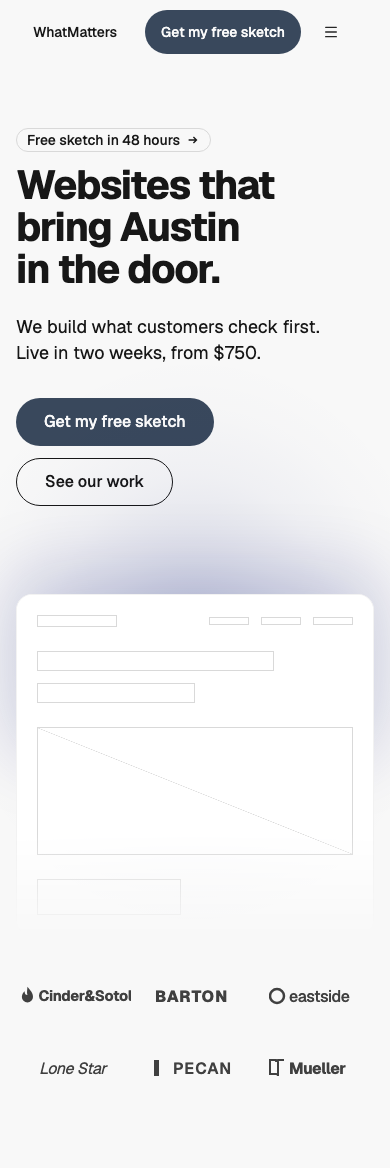
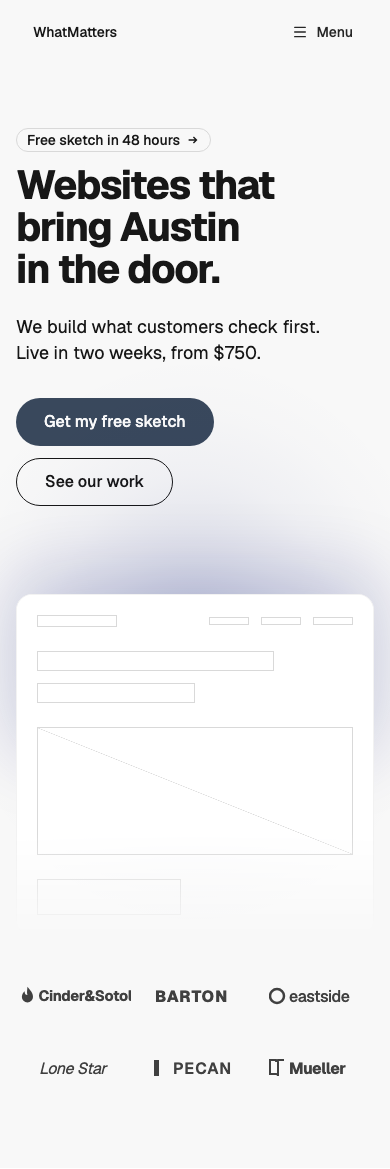
Header — Mobile Menu (draft): the site header pattern on WMDS SiteNav 0.4.31 — all links on desktop, Menu/Close word button and full-height menu on phones, compact bar on scroll
- HeaderMobileMenu.tsx: links once for bar and menu; action + menuAction; secondary on desktop
- example over a tall placeholder page; README (slots, behaviour, Adapt it), SKILL.md row
- check: Header type (banner + nav, no h1); Copy prompt counts { label } lists as text
- hero examples: drop the max-[359px] CTA workaround (SiteNav now gives way by measurement) and pass mobileAction
- needs the WMDS 0.4.31 pin bump before CI can typecheck mobileAction

Changed region(s): [[0.3692, 0.0, 0.7692, 0.0616], [0.8, 0.0, 0.8923, 0.0308]]

diff --git a/patterns/header/mobile-menu/HeaderMobileMenu.tsx b/patterns/header/mobile-menu/HeaderMobileMenu.tsx
@@ -1,0 +1,63 @@
+/**
+ * Header — Mobile Menu: the site header and its phone menu, after the Header and mobile menu rule
+ * (Randy, 2026-10-28). WMDS `SiteNav` does the work: all links on desktop, a "☰ Menu" button below `md`
+ * that becomes "✕ Close" in place and opens a full-height menu under the bar (56px rows, the main action
+ * at the bottom), and the floating compact bar once the page scrolls.
+ */
+import type { ReactNode } from "react";
+import { SiteNav } from "@thewhatmatters/wmds";
+
+export interface HeaderMobileMenuLink {
+  label: string;
+  href: string;
+  /** The page you're on: marked by the selected fill and `aria-current="page"`. */
+  current?: boolean;
+}
+
+export interface HeaderMobileMenuProps {
+  /** Slot: the brand, a WMDS `<SiteNav.Brand href="/">Name</SiteNav.Brand>` (a wordmark link that never underlines). */
+  brand: ReactNode;
+  /** The main links, key word first; 4 or fewer so they also show on tablets (5–7 at most on desktop). */
+  links: HeaderMobileMenuLink[];
+  /** Slot: the bar's main button, a WMDS `<Button size="sm">`. Hides under 360px; `menuAction` carries it there. */
+  action: ReactNode;
+  /** Slot: the same action as a full-width WMDS `<Button>` at the bottom of the open menu. */
+  menuAction: ReactNode;
+  /** Slot, optional: a quieter link beside the main button on desktop (Sign in, Contact). */
+  secondary?: ReactNode;
+  /** `fixed` (default) is page chrome: in flow at the top, then the floating compact bar on scroll. */
+  placement?: "fixed" | "inline";
+  className?: string;
+}
+
+export function HeaderMobileMenu({ brand, links, action, menuAction, secondary, placement = "fixed", className }: HeaderMobileMenuProps) {
+  return (
+    <div data-pattern="header-mobile-menu" className={className}>
+      <SiteNav
+        placement={placement}
+        start={<div data-slot="brand">{brand}</div>}
+        middle={
+          <SiteNav.Links>
+            {links.map((link) => (
+              <SiteNav.Link key={link.href} href={link.href} current={link.current}>
+                {link.label}
+              </SiteNav.Link>
+            ))}
+          </SiteNav.Links>
+        }
+        end={
+          <div className="flex items-center gap-2" data-slot="action">
+            {secondary != null ? <span className="max-md:hidden" data-slot="secondary" data-slot-optional="">{secondary}</span> : null}
+            {action}
+          </div>
+        }
+        mobile={links.map((link) => (
+          <SiteNav.MobileLink key={link.href} href={link.href} current={link.current}>
+            {link.label}
+          </SiteNav.MobileLink>
+        ))}
+        mobileAction={<div data-slot="menuAction">{menuAction}</div>}
+      />
+    </div>
+  );
+}

diff --git a/patterns/header/mobile-menu/example.tsx b/patterns/header/mobile-menu/example.tsx
@@ -1,0 +1,50 @@
+/**
+ * Example content for Header — Mobile Menu: a WhatMatters-style site header over a placeholder page tall
+ * enough to scroll, so the compact bar shows. Replace the links, brand and action with the site's own.
+ */
+import { Button, SiteNav } from "@thewhatmatters/wmds";
+import { HeaderMobileMenu, type HeaderMobileMenuProps } from "./HeaderMobileMenu";
+
+export const meta = {
+  type: "Header",
+  name: "Header — Mobile Menu",
+  purpose: "The site header with all links on desktop, a Menu button and full-height menu on phones, and a compact bar on scroll.",
+};
+
+export function HeaderMobileMenuExample(props: Partial<HeaderMobileMenuProps>) {
+  return (
+    <>
+      <HeaderMobileMenu
+        brand={<SiteNav.Brand href="#home">WhatMatters</SiteNav.Brand>}
+        links={[
+          { label: "Services", href: "#services", current: true },
+          { label: "Work", href: "#work" },
+          { label: "Pricing", href: "#pricing" },
+          { label: "Contact", href: "#contact" },
+        ]}
+        secondary={
+          <Button role="ghost" size="sm" render={<a href="#signin" />}>
+            Sign in
+          </Button>
+        }
+        action={
+          <Button role="primary" size="sm" render={<a href="#sketch" />} className="whitespace-nowrap">
+            Get my free sketch
+          </Button>
+        }
+        menuAction={
+          <Button role="primary" size="lg" render={<a href="#sketch" />}>
+            Get my free sketch
+          </Button>
+        }
+        {...props}
+      />
+      {/* Placeholder page: tall enough to scroll, so the compact bar shows. */}
+      <main className="grid-page">
+        <div className="col-span-full h-[160vh] rounded-[var(--radius-surface)] border border-dashed border-border" aria-hidden />
+      </main>
+    </>
+  );
+}
+
+export default HeaderMobileMenuExample;

diff --git a/gallery/copy.ts b/gallery/copy.ts
@@ -25,12 +25,15 @@ function section(readme: string, title: string): string[] {
   return lines.slice(start + 1, end === -1 ? undefined : end);
 }
 
-/** Text props from "Slots and props": rows whose kind is ReactNode (copy), not slots or shorthands. */
+/**
+ * Text props from "Slots and props": rows whose kind is ReactNode (copy), or a list of `{ label, … }`
+ * items (a header's link labels), not slots or shorthands.
+ */
 export function textSlots(readme: string): string[] {
   return section(readme, "Slots and props")
     .filter((line) => line.startsWith("| `"))
     .map((line) => line.split("|").map((cell) => cell.trim()))
-    .filter(([, , kind]) => kind === "ReactNode")
+    .filter(([, , kind]) => kind === "ReactNode" || /^`\{ label\b/.test(kind))
     .map(([, prop]) => prop.replace(/`/g, ""));
 }
 

diff --git a/patterns/hero/feature-center/example.tsx b/patterns/hero/feature-center/example.tsx
@@ -97,7 +97,7 @@ export const exampleNav = (
             Contact
           </Button>
         </span>
-        <Button role="primary" size="sm" render={<a href="#sketch" />} className="whitespace-nowrap max-[359px]:hidden">
+        <Button role="primary" size="sm" render={<a href="#sketch" />} className="whitespace-nowrap">
           Get my free sketch
         </Button>
       </div>
@@ -110,6 +110,11 @@ export const exampleNav = (
         <SiteNav.MobileLink href="#process">Process</SiteNav.MobileLink>
         <SiteNav.MobileLink href="#contact">Contact</SiteNav.MobileLink>
       </>
+    }
+    mobileAction={
+      <Button role="primary" size="lg" render={<a href="#sketch" />}>
+        Get my free sketch
+      </Button>
     }
   />
 );

diff --git a/patterns/hero/phone-center/example.tsx b/patterns/hero/phone-center/example.tsx
@@ -54,7 +54,7 @@ export const exampleNav = (
             Contact
           </Button>
         </span>
-        <Button role="primary" size="sm" render={<a href="#sketch" />} className="whitespace-nowrap max-[359px]:hidden">
+        <Button role="primary" size="sm" render={<a href="#sketch" />} className="whitespace-nowrap">
           Get my free sketch
         </Button>
       </div>
@@ -67,6 +67,11 @@ export const exampleNav = (
         <SiteNav.MobileLink href="#process">Process</SiteNav.MobileLink>
         <SiteNav.MobileLink href="#contact">Contact</SiteNav.MobileLink>
       </>
+    }
+    mobileAction={
+      <Button role="primary" size="lg" render={<a href="#sketch" />}>
+        Get my free sketch
+      </Button>
     }
   />
 );

diff --git a/check/patterns.test.tsx b/check/patterns.test.tsx
@@ -60,6 +60,11 @@ describe.each(folders)("patterns/%s", (folder) => {
       expect(html.match(/<h[12][\s>]/g)).toHaveLength(1);
       expect(html).not.toMatch(/<nav[\s>]/);
       expect(renderToString(<Example as="h1" />).match(/<h1[\s>]/g)).toHaveLength(1);
+    } else if (mod.meta.type === "Header") {
+      // A header is the page's banner landmark with its nav; it never holds the page's h1.
+      expect(html).toMatch(/<header[\s>]/);
+      expect(html).toMatch(/<nav[\s>]/);
+      expect(html).not.toMatch(/<h1[\s>]/);
     } else if (mod.meta.type === "Services") {
       // A services section sits further down the page: one h2 that names it, no h1 and no nav.
       expect(html).toMatch(/<section[^>]*aria-labelledby=/);

diff --git a/patterns/header/mobile-menu/README.md b/patterns/header/mobile-menu/README.md
@@ -1,0 +1,54 @@
+# Header — Mobile Menu
+
+status: draft
+
+The site header Randy asked for ("We definitely need a mobile nav pattern"), built to the **Header and mobile menu rule** (Rule 12, 2026-10-28). WMDS `SiteNav` (0.4.31) does the behaviour; this pattern wires the links once for both the desktop bar and the phone menu.
+**File:** `HeaderMobileMenu.tsx` (copy it). **Example:** `example.tsx`, over a placeholder page tall enough to scroll.
+
+| Light | Dark | Mobile (390) |
+|---|---|---|
+| ![](light.png) | ![](dark.png) | ![](mobile.png) |
+
+## Use it
+
+```tsx
+import { Button, SiteNav } from "@thewhatmatters/wmds";
+import { HeaderMobileMenu } from "./HeaderMobileMenu";
+
+<HeaderMobileMenu
+  brand={<SiteNav.Brand href="/">Cinder & Sotol</SiteNav.Brand>}
+  links={[{ label: "Menu", href: "/menu", current: true }, { label: "Visit", href: "/visit" }, { label: "Private dining", href: "/private" }]}
+  action={<Button role="primary" size="sm" render={<a href="/book" />}>Book</Button>}
+  menuAction={<Button role="primary" size="lg" render={<a href="/book" />}>Book a table</Button>}
+/>
+```
+
+## Slots and props
+
+| Prop | Type | What it is |
+|---|---|---|
+| `brand` | slot | WMDS `SiteNav.Brand`: the wordmark link (never underlines) |
+| `links` | `{ label, href, current? }[]` | The main links, key word first. **4 or fewer** so they also show on tablets; 5–7 at most |
+| `action` | slot | The bar's main button, WMDS `Button size="sm"`. Keep the label short (about 12 characters) so it fits beside Menu at 390; when the bar is too tight it gives way and `menuAction` carries it |
+| `menuAction` | slot | The same action as a WMDS `Button size="lg"`, full width at the bottom of the open menu |
+| `secondary` | slot, optional | A quieter link beside the action on desktop (Sign in, Contact); hidden on phones |
+| `placement` | `"fixed"` \| `"inline"` | `fixed` (default): page chrome, in flow at the top, then the floating compact bar on scroll |
+
+## Adapt it
+
+- **A restaurant:** links Menu / Visit / Private dining, action "Book", menu action "Book a table".
+- **Fewer links:** 3 links read best; never more than 7 (more than 4 move into the menu on tablets too).
+- **No action:** pass a quiet link (`Button role="ghost"`) as `action` and the same as `menuAction`; keep one primary per screen.
+
+## How it behaves (all WMDS SiteNav)
+
+- **Desktop (`md`+):** every link in the bar, the current page in the selected fill with `aria-current="page"`. Never a menu button.
+- **Phones:** "☰ Menu" (icon and word, 44px+) becomes "✕ Close" in the same place. The menu is a full-height panel under the bar: 56px rows, the current page in weight + fill, the main action pinned at the bottom.
+- **The open menu is a dialog:** focus moves to the first link and cycles through the bar and the menu, the page behind is inert and doesn't scroll, Escape or Close closes it, **tapping any link closes it**, and focus returns to Menu.
+- **Scrolled:** the floating compact bar keeps the wordmark, the action (when it fits) and Menu. No hide-on-scroll motion.
+
+## Notes
+
+- Screenshots and the review set (closed, open and scrolled at 320, 390, 786, 1024 and 1440, light and dark) are in Lead Engineer's `files/header-mobile-menu/`.
+- **Needs WMDS 0.4.31** (`mobileAction`, the new phone menu). Bump the pin when it publishes.
+- Not yet in WMDS: sub-pages that open in place with a back row (N8), and hover-open dropdowns with 0.5s delays (N4; SiteNav menus open on click today).

diff --git a/SKILL.md b/SKILL.md
@@ -22,6 +22,7 @@ Patterns marked draft aren't approved yet: prefer approved ones, and say so if y
 
 | Pattern | Purpose | Use when | Don't use when | Folder |
 |---|---|---|---|---|
+| Header — Mobile Menu | The site header: all links on desktop, a "☰ Menu" button that becomes "✕ Close" on phones and opens a full-height menu under the bar (56px rows, the main action at the bottom), and a floating compact bar on scroll | Any marketing site: this is the default header (Header and mobile menu rule) | An app shell with a sidebar (use WMDS `AppShell`), or more than 7 top links | `patterns/header/mobile-menu` |
 | Hero — Feature Center | Centred pitch and CTAs over the product in a backlit frame, then a row of client logos | The first screen of a site that sells a product or service and has a product shot or site to show, with proof (logos) under it | The hero is mostly a photo or video, an article or app screen, or an editorial left-aligned layout is wanted | `patterns/hero/feature-center` |
 | Hero — Phone Center | Centred pitch and CTAs over a wide photo or video, with an iPhone frame showing the app in the middle | An app or mobile-first service whose story is what happens on the phone, with a photo or video to set the mood | There's no phone to show, or the product is a desktop app or a website (use hero/feature-center) | `patterns/hero/phone-center` |
 | Footer — Landscape | Calm footer on the muted background: brand, live world clocks, link columns, a fact strip, and a landscape drawn live in dots from a video | A product or studio site that wants a quiet footer with one memorable moment at the bottom | A dense sitemap footer with many columns, or a page with no room for motion | `patterns/footer/landscape` |
